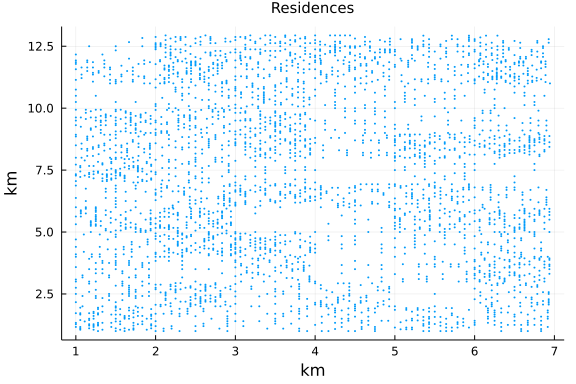
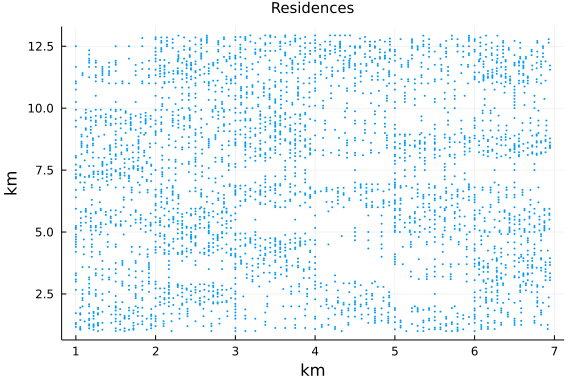
next evolution

diff --git a/docs/src/examples/random_scenario.md b/docs/src/examples/random_scenario.md
@@ -275,12 +275,12 @@ res_blocks_distrib = EpiSiming.gen_res_blocks(pop_blocks, res_size_distribution)
 
 ```
 6×12 Matrix{Vector{Int64}}:
- [8, 20, 30, 19, 4, 4, 1, 0]  …  [1, 2, 4, 2, 0, 0, 0, 0]
- [3, 9, 13, 7, 1, 1, 0, 0]       [6, 16, 22, 13, 3, 3, 1, 0]
- [2, 7, 8, 6, 1, 1, 0, 0]        [9, 15, 23, 14, 3, 3, 2, 0]
- [5, 9, 14, 9, 3, 3, 0, 0]       [8, 16, 25, 16, 3, 4, 1, 0]
- [6, 15, 18, 14, 2, 2, 1, 0]     [5, 12, 17, 12, 2, 2, 0, 0]
- [6, 12, 16, 10, 2, 2, 0, 0]  …  [6, 12, 20, 10, 2, 2, 0, 0]
+ [8, 19, 28, 19, 4, 4, 1, 1]  …  [1, 2, 4, 2, 0, 0, 0, 0]
+ [3, 7, 10, 7, 1, 2, 1, 0]       [6, 15, 21, 13, 4, 3, 1, 0]
+ [2, 6, 8, 5, 1, 2, 0, 0]        [7, 14, 22, 16, 3, 4, 1, 0]
+ [4, 11, 15, 9, 3, 2, 0, 0]      [8, 16, 27, 16, 3, 3, 1, 0]
+ [6, 13, 20, 12, 2, 3, 1, 0]     [5, 12, 18, 10, 3, 2, 0, 0]
+ [4, 11, 16, 11, 2, 2, 0, 0]  …  [7, 12, 17, 12, 2, 2, 0, 0]
 ```
 
 
@@ -781,30 +781,29 @@ time_step = 1
 ```
 
 ```
-2.658877 seconds (276.77 k allocations: 35.702 MiB, 11.31% compilation ti
-me)
-  0.217505 seconds (2 allocations: 19.766 KiB)
+1.772811 seconds (22.32 k allocations: 12.942 MiB)
+  0.188167 seconds (2 allocations: 19.766 KiB)
 360×7 Matrix{Int64}:
- 9980  20   0   0     0   0  0
- 9980  13   2   5     0   0  0
- 9976  12   4   7     1   0  0
- 9972  12   6   7     3   0  0
- 9964  17   6   8     5   0  0
- 9958  19   8   6     9   0  0
- 9949  24  11   5    11   0  0
- 9945  24  10   8    13   0  0
- 9938  22  10  14    16   0  0
- 9931  25  11  14    19   0  0
-    ⋮                     ⋮  
- 4881   1   1   0  5076  41  0
- 4881   1   1   0  5076  41  0
- 4881   1   1   0  5076  41  0
- 4881   1   0   0  5077  41  0
- 4881   1   0   0  5077  41  0
- 4881   1   0   0  5077  41  0
- 4881   1   0   0  5077  41  0
- 4881   1   0   0  5077  41  0
- 4881   1   0   0  5077  41  0
+ 9980  20   0   0     0  0  0
+ 9980  13   2   5     0  0  0
+ 9976  12   4   7     1  0  0
+ 9970  14   7   6     3  0  0
+ 9967  14   8   6     5  0  0
+ 9963  13  10   7     7  0  0
+ 9959  12  11   8    10  0  0
+ 9954  11  14   6    15  0  0
+ 9948  10  11  12    19  0  0
+ 9942  14  11   9    23  1  0
+    ⋮                    ⋮  
+ 6581   0   0   0  3419  0  0
+ 6581   0   0   0  3419  0  0
+ 6581   0   0   0  3419  0  0
+ 6581   0   0   0  3419  0  0
+ 6581   0   0   0  3419  0  0
+ 6581   0   0   0  3419  0  0
+ 6581   0   0   0  3419  0  0
+ 6581   0   0   0  3419  0  0
+ 6581   0   0   0  3419  0  0
 ```
 
 
